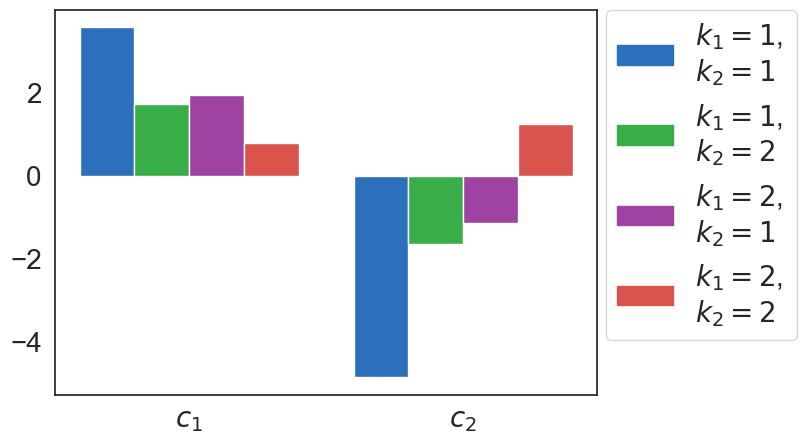
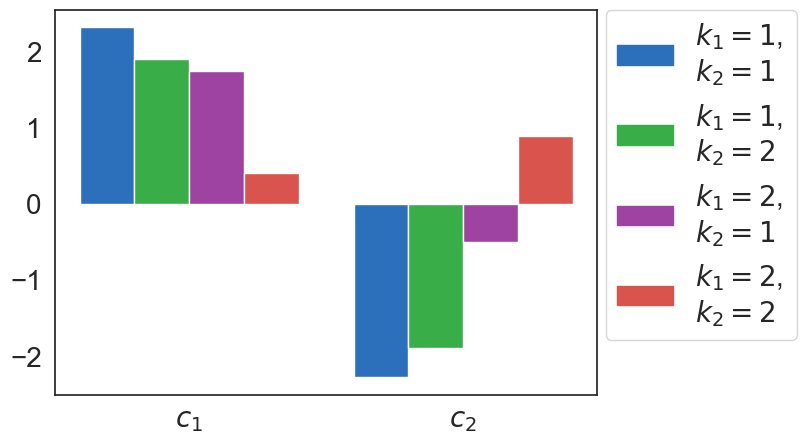
Updates to numerical experiments

diff --git a/Numerical_Experiments/Approximation of beta/derive_approx.py b/Numerical_Experiments/Approximation of beta/derive_approx.py
@@ -161,7 +161,7 @@ def create_plot_avg_norm_grads(P, start_d, end_d, labels):
     plt.plot([], c='blue', label=labels[2])
     plt.legend(bbox_to_anchor=(0.99, 1.025), loc='upper left',
                prop={'size': 15})
-    plt.xlabel(r"$d$", size=15)
+    plt.xlabel(r"$d$", size=20)
     plt.xlim(start_d, end_d)
     plt.xticks(np.linspace(start_d, end_d, 4, endpoint=True))
     plt.tight_layout()
@@ -177,7 +177,7 @@ def create_plot_const_approx_beta(start_d, end_d):
     plt.plot(np.arange(start_d, end_d),
              const_approx_beta(np.arange(start_d, end_d), c),
              color='blue')
-    plt.xlabel(r"$d$", size=15)
+    plt.xlabel(r"$d$", size=20)
     plt.xlim(start_d, end_d)
     plt.xticks(np.linspace(start_d, end_d, 4, endpoint=True))
     plt.tight_layout()

diff --git a/Numerical_Experiments/Analysis_of_METOD_condition/metod_analysis_compute_quantities.py b/Numerical_Experiments/Analysis_of_METOD_condition/metod_analysis_compute_quantities.py
@@ -177,8 +177,15 @@ def metod_analysis_compute_quantities(func_name):
                           counter_non_match, number_its_compare,
                           g, func_args))
 
-        pos_1 = indices_nsm[np.argmax(calculate_sum_quantities_nsm), 0]
-        pos_2 = indices_nsm[np.argmax(calculate_sum_quantities_nsm), 1]
+        if func_name == 'quad':
+            pos_1 = 48
+            pos_2 = 98
+        elif func_name == 'sog':
+            pos_1 = 50
+            pos_2 = 54
+        elif func_name == 'shekel':
+            pos_1 = 4
+            pos_2 = 97
         x_tr = store_x_values[int(pos_1)]
         y_tr = store_x_values[int(pos_2)]
         min_x = store_minima[int(pos_1)]

diff --git a/Numerical_Experiments/Analysis_of_METOD_condition/data/quad_quant_nsm_d=100_False_relax_c=1_num=1_Brent.tex b/Numerical_Experiments/Analysis_of_METOD_condition/data/quad_quant_nsm_d=100_False_relax_c=1_num=1_Brent.tex
@@ -4,9 +4,9 @@
 \midrule
 0.01 & -0.1078 & -0.0894 & -0.0206 &  0.0454 \\
 0.10 & -0.5566 & -0.4651 &  0.1854 &  0.5455 \\
-0.20 & -1.2861 &  0.0700 &  0.8138 &  2.0241 \\
+0.20 &  0.0462 &  0.0236 &  1.2415 &  1.2951 \\
 0.01 &  0.0510 &  0.0506 &  0.1741 &  0.0230 \\
 0.10 &  0.5102 &  0.5063 &  1.7413 &  0.2300 \\
-0.20 &  0.7352 &  1.0425 &  1.7165 &  0.6368 \\
+0.20 &  1.0203 &  1.0125 &  3.4827 &  0.4600 \\
 \bottomrule
 \end{tabular}
